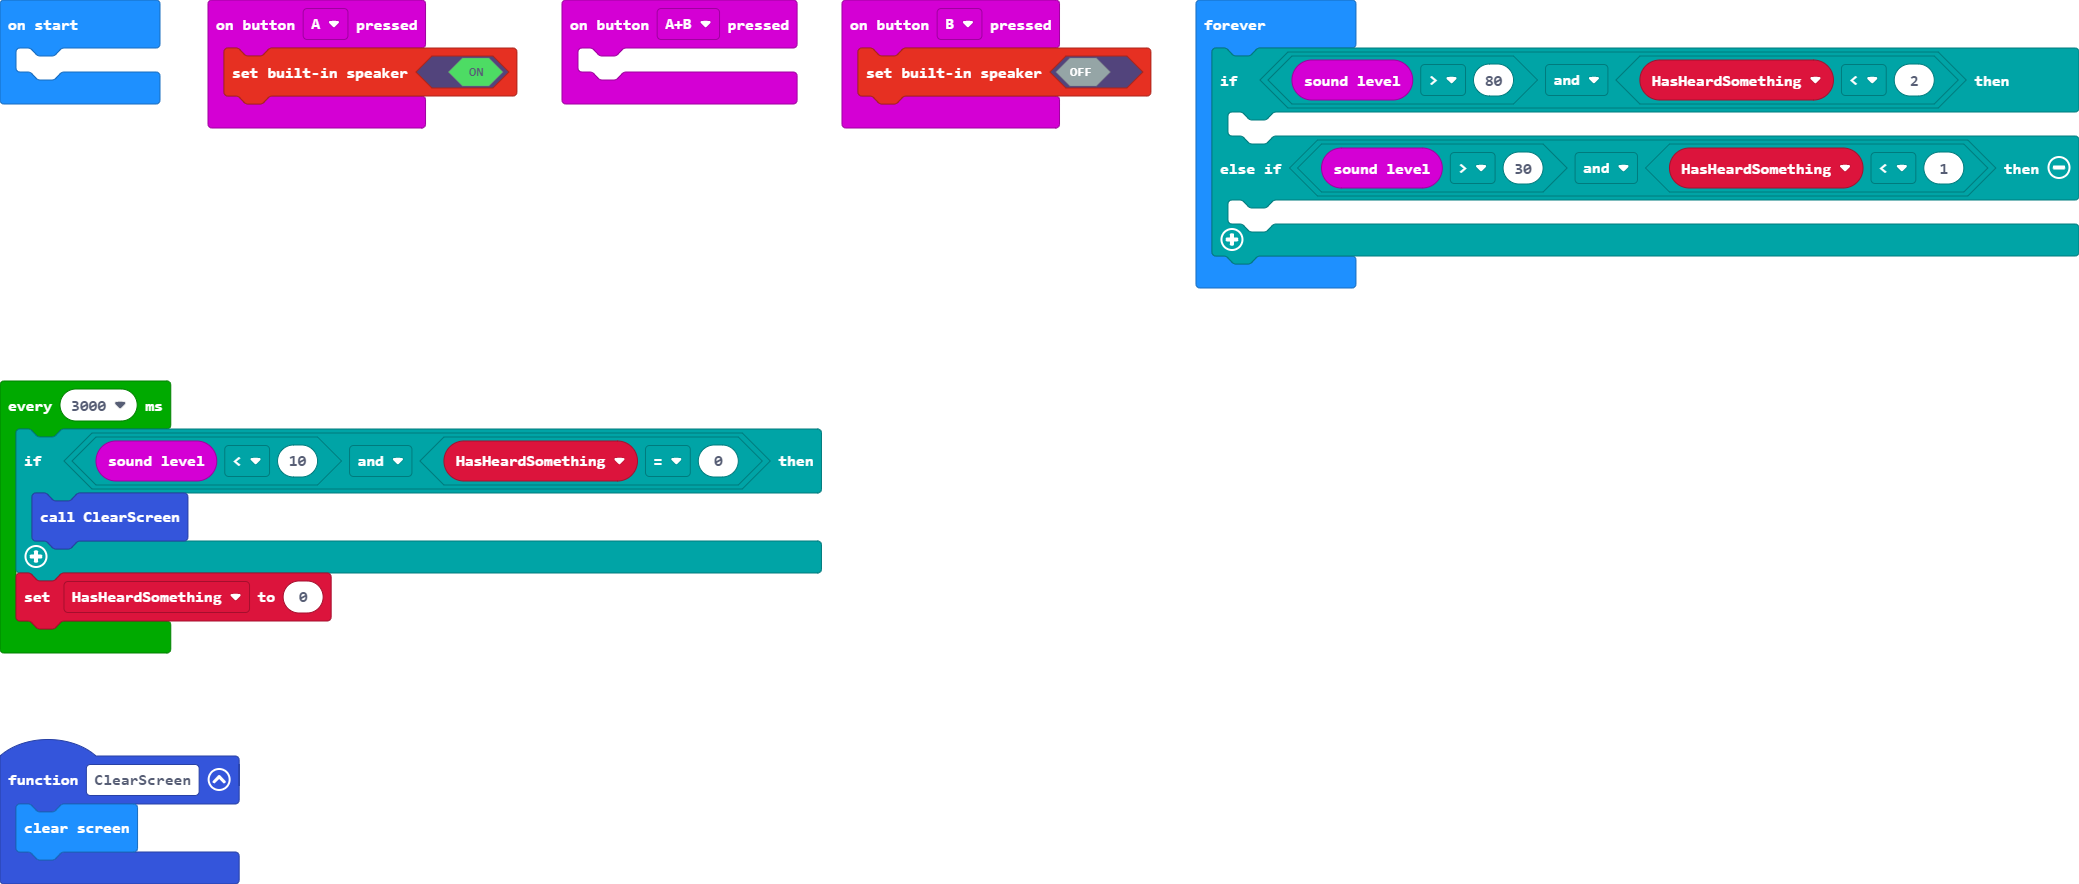
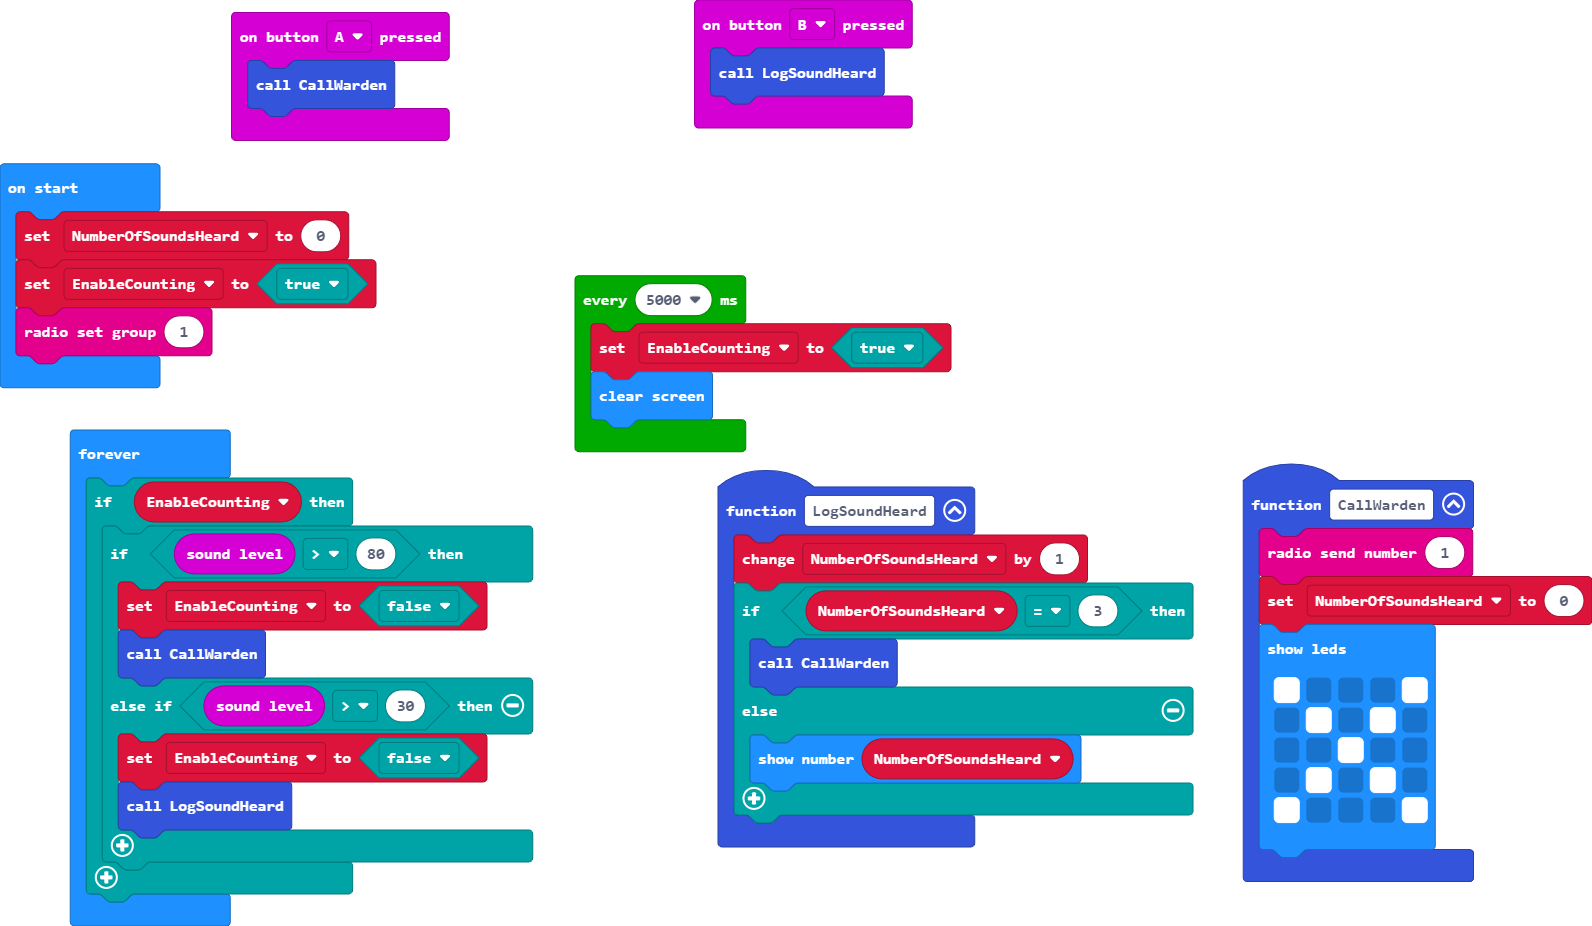
Update main.blocks, main.ts

diff --git a/main.ts b/main.ts
@@ -1,26 +1,44 @@
-let HasHeardSomething = 0
-input.onButtonPressed(Button.A, function () {
-    music.setBuiltInSpeakerEnabled(true)
-})
-input.onButtonPressed(Button.AB, function () {
-	
-})
-input.onButtonPressed(Button.B, function () {
-    music.setBuiltInSpeakerEnabled(false)
-})
-function ClearScreen () {
-    basic.clearScreen()
+function CallWarden () {
+    radio.sendNumber(1)
+    NumberOfSoundsHeard = 0
+    basic.showLeds(`
+        # . . . #
+        . # . # .
+        . . # . .
+        . # . # .
+        # . . . #
+        `)
 }
+input.onButtonPressed(Button.A, function () {
+    CallWarden()
+})
+function LogSoundHeard () {
+    NumberOfSoundsHeard += 1
+    if (NumberOfSoundsHeard == 3) {
+        CallWarden()
+    } else {
+        basic.showNumber(NumberOfSoundsHeard)
+    }
+}
+input.onButtonPressed(Button.B, function () {
+    LogSoundHeard()
+})
+let NumberOfSoundsHeard = 0
+NumberOfSoundsHeard = 0
+let EnableCounting = true
+radio.setGroup(1)
 basic.forever(function () {
-    if (input.soundLevel() > 80 && HasHeardSomething < 2) {
-    	
-    } else if (input.soundLevel() > 30 && HasHeardSomething < 1) {
-    	
+    if (EnableCounting) {
+        if (input.soundLevel() > 80) {
+            EnableCounting = false
+            CallWarden()
+        } else if (input.soundLevel() > 30) {
+            EnableCounting = false
+            LogSoundHeard()
+        }
     }
 })
-loops.everyInterval(3000, function () {
-    if (input.soundLevel() < 10 && HasHeardSomething == 0) {
-        ClearScreen()
-    }
-    HasHeardSomething = 0
+loops.everyInterval(5000, function () {
+    EnableCounting = true
+    basic.clearScreen()
 })
